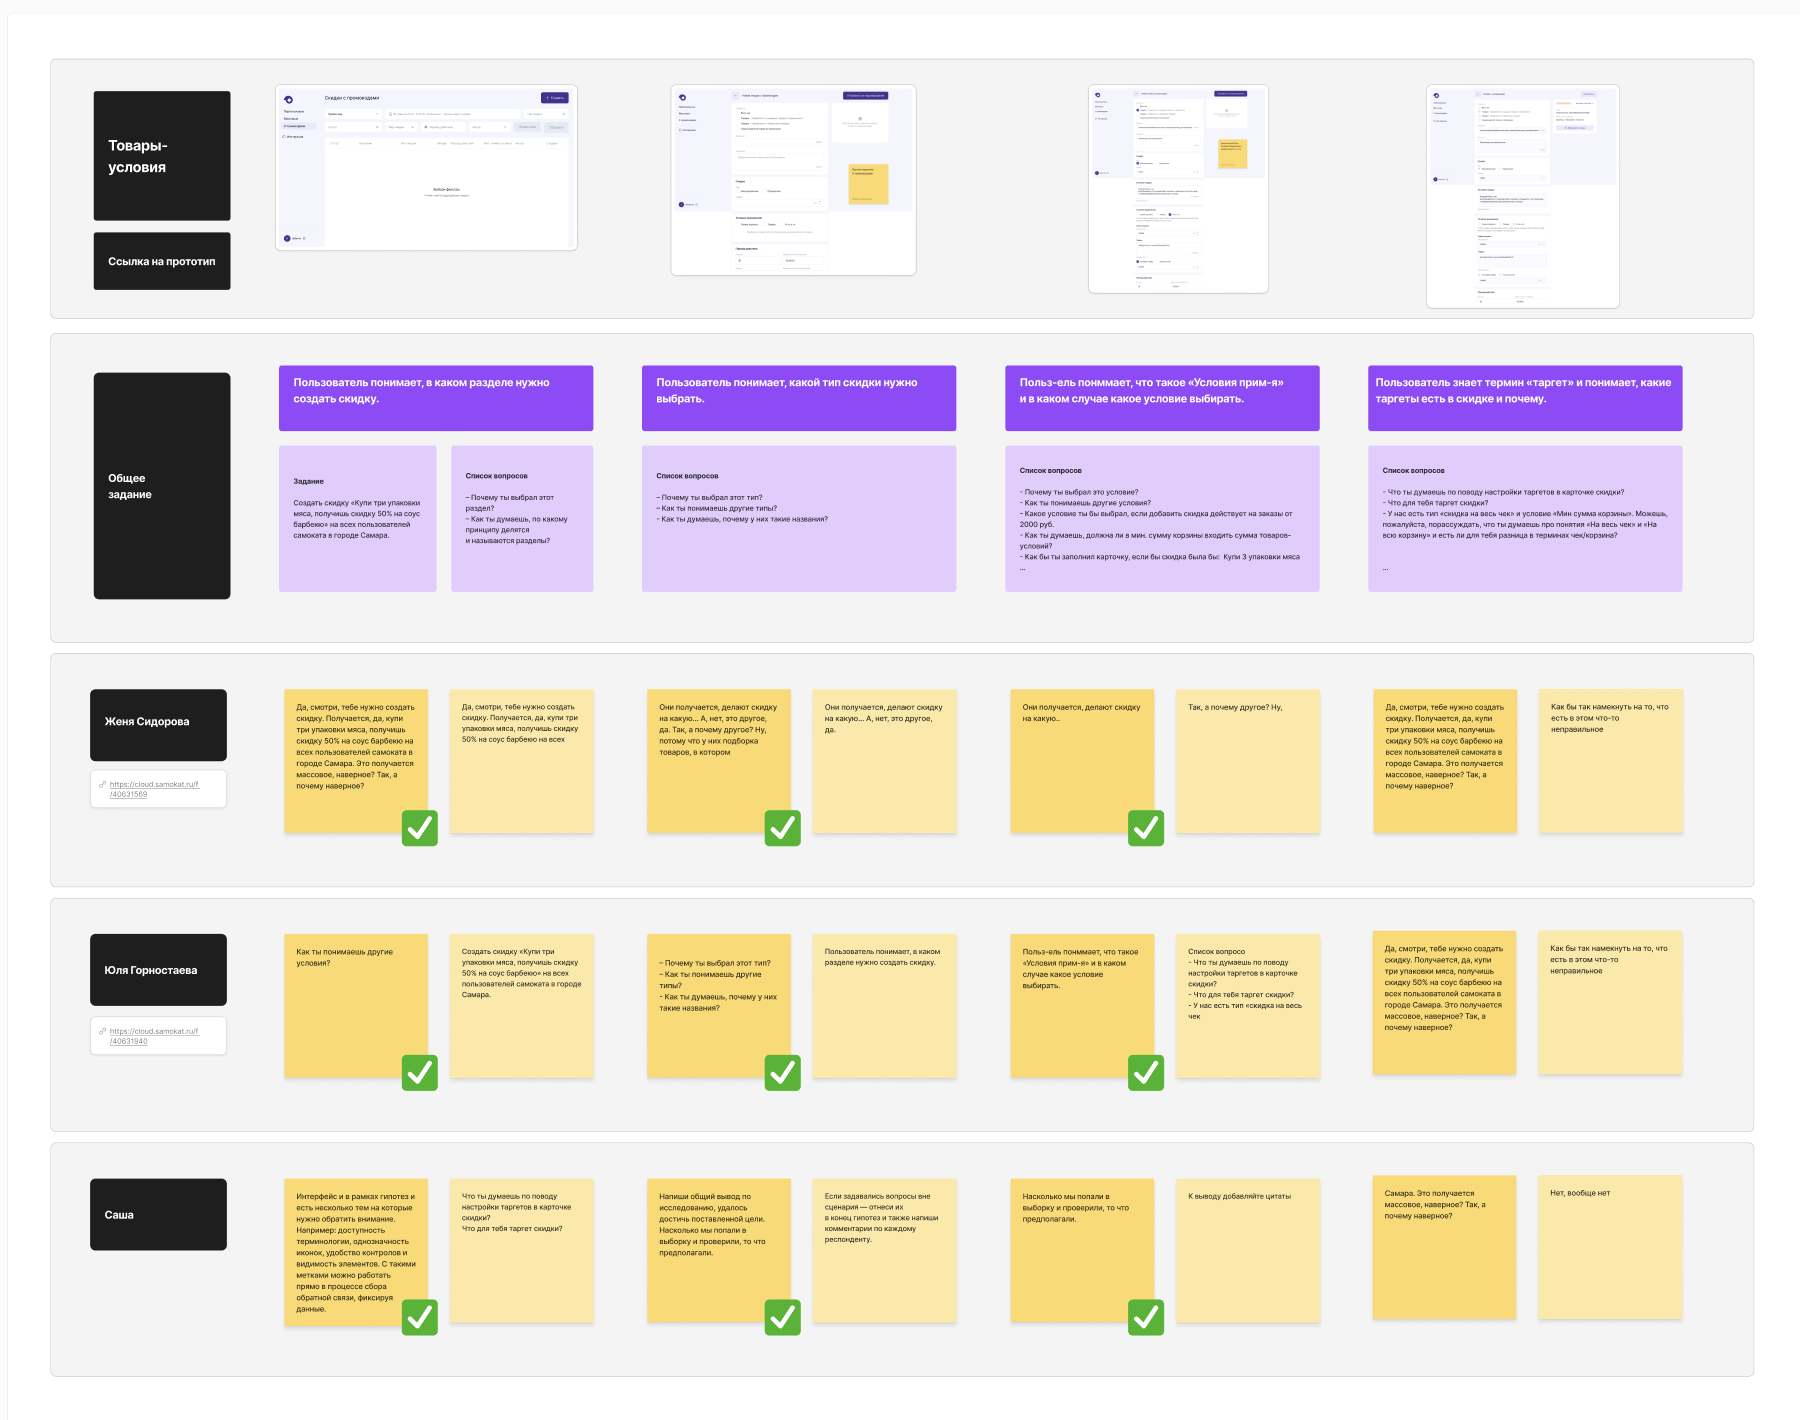
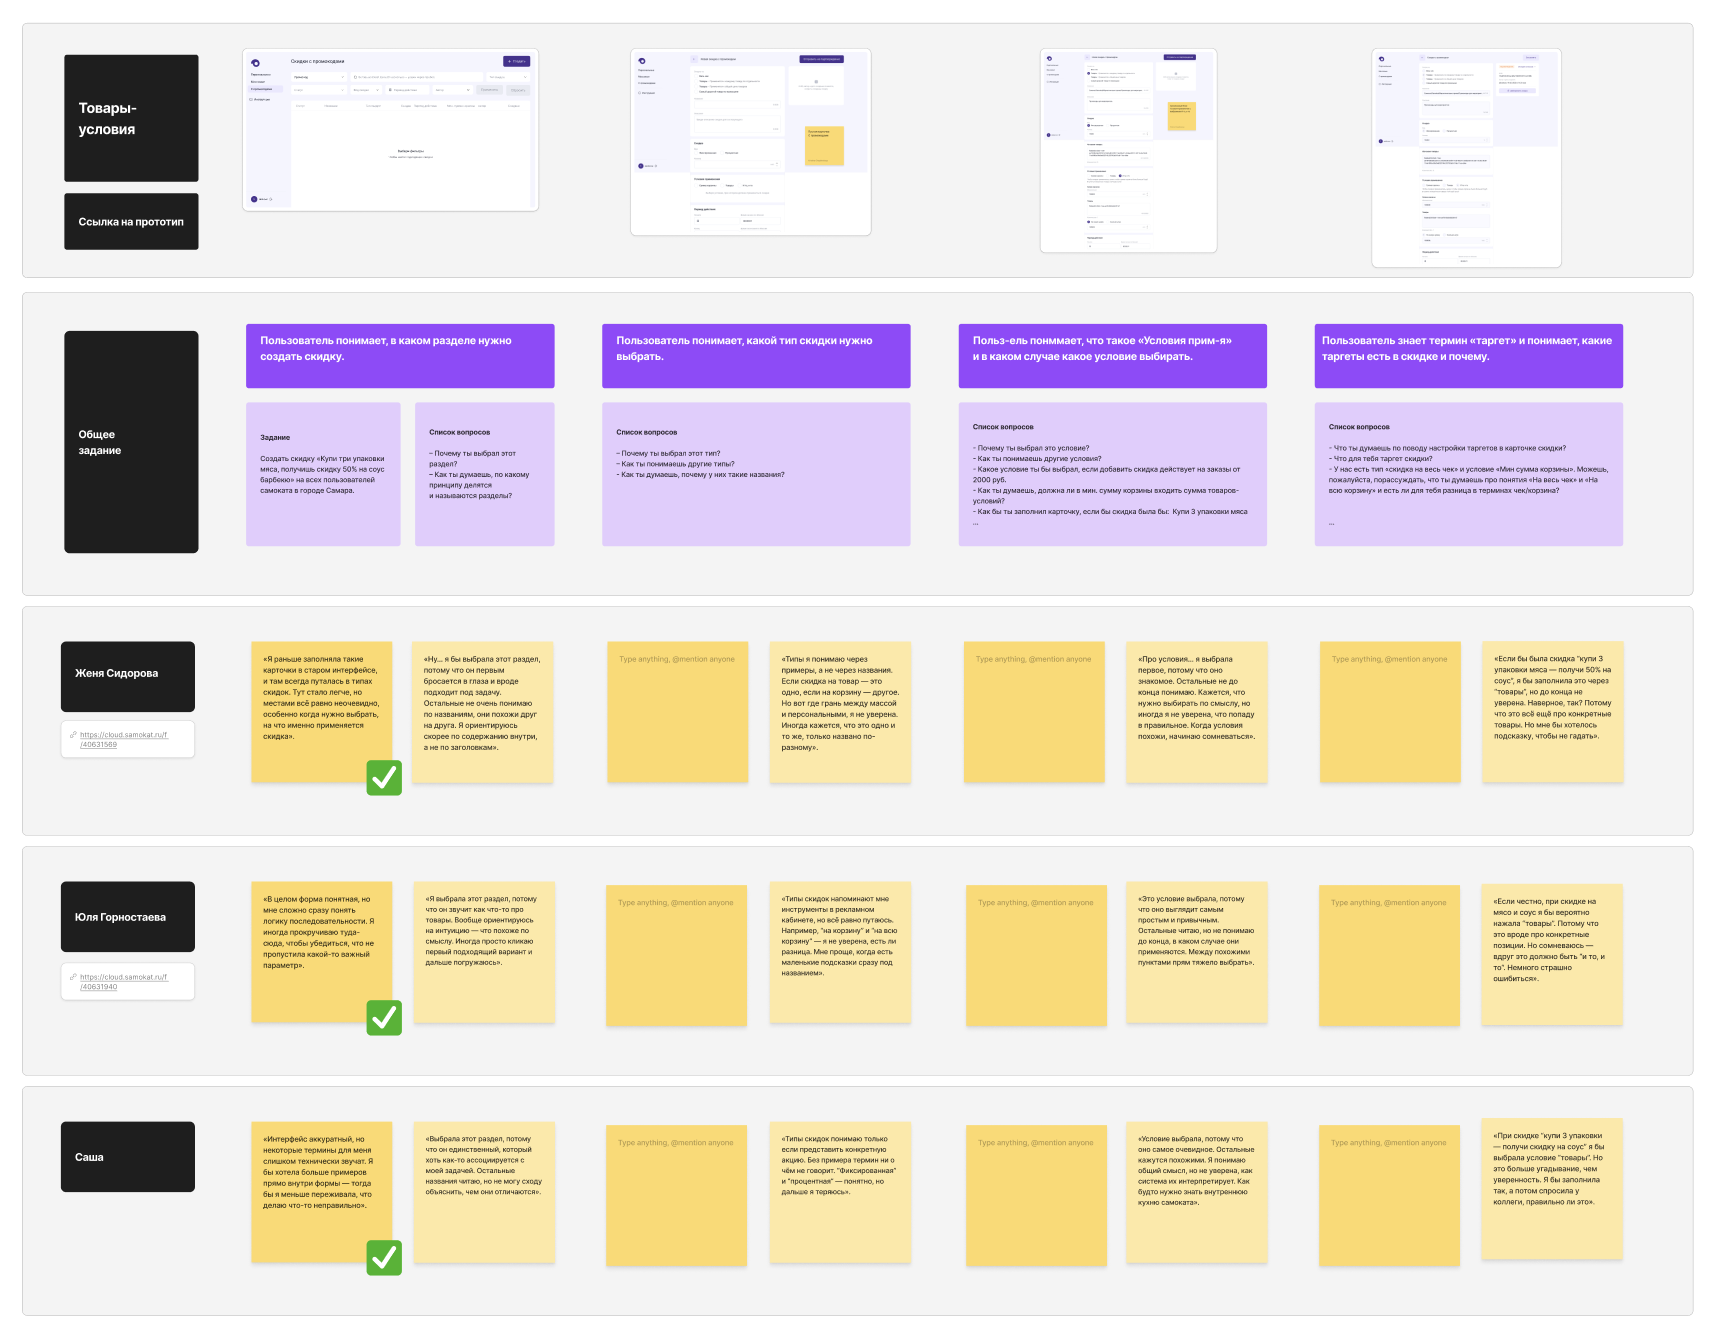
что-то

diff --git a/samokat.html b/samokat.html
@@ -178,6 +178,64 @@
       </p>
     </section>
 
+    <section class="case-section">
+      <h2 class="case-section__title">Процесс и артефакты</h2>
+      <h3 class="case-section__subtitle">UX-тестирование</h3>
+      <p class="case-section__text">
+        Чтобы убедиться, что новая форма создания скидок понятна и её можно быстро заполнить без инструкций, я провела UX-тестирование на 3 маркетологах, которые регулярно запускают акции.
+      </p>
+      <p class="case-section__text"><strong>Что проверяла:</strong></p>
+      <ul class="case-section__list">
+        <li>навигацию внутри формы;</li>
+        <li>понимание структуры условий;</li>
+        <li>корректность выбора типа скидки;</li>
+        <li>заполнение критических полей без ошибок.</li>
+      </ul>
+      <p class="case-section__text"><strong>Результат:</strong></p>
+      <ul class="case-section__list">
+        <li>Все участники успешно создали скидку с первого раза, без подсказок.</li>
+        <li>Зафиксировала небольшие замечания: уточнила формулировки подсказок и усилила визуальные связи между полями.</li>
+        <li>После правок пользователи оценили интерфейс как «намного проще и понятнее, чем предыдущий».</li>
+      </ul>
+      <figure class="case-figure">
+        <img class="case-figure__image" src="uxtest.png" alt="Скриншот UX-тестирования формы создания скидки" />
+      </figure>
+      <h3 class="case-section__subtitle">Финальные макеты</h3>
+      <p class="case-section__text">
+        Ниже — итоговые экраны интерфейса с учётом всех согласований, комментариев и результатов UX-тестирования. Использовала внутреннюю дизайн-систему.
+      </p>
+      <div class="case-slider" data-case-slider>
+        <div class="case-slider__controls">
+          <button class="case-slider__button case-slider__button--prev" type="button" data-case-slider-prev aria-label="Предыдущий макет">
+            <svg xmlns="http://www.w3.org/2000/svg" class="case-slider__icon" width="56" height="56" viewBox="0 0 48 48" aria-hidden="true">
+              <path d="M24.084 1.39551C24.8109 13.5194 34.4806 23.1891 46.6045 23.916L48 24L46.6045 24.084C34.4806 24.8109 24.8109 34.4806 24.084 46.6045L24 48L23.916 46.6045C23.1891 34.4806 13.5194 24.8109 1.39551 24.084L0 24L1.39551 23.916C13.5194 23.1891 23.1891 13.5194 23.916 1.39551L24 0L24.084 1.39551ZM23.2725 20.7842L19.1123 24.96L23.2725 29.1201L24.9844 29.1357L21.4316 25.584H28.3281V24.3359H21.4297L24.9678 20.7842H23.2725Z" fill="#CC0E1F"/>
+            </svg>
+          </button>
+          <button class="case-slider__button case-slider__button--next" type="button" data-case-slider-next aria-label="Следующий макет">
+            <svg xmlns="http://www.w3.org/2000/svg" class="case-slider__icon" width="56" height="56" viewBox="0 0 48 48" style="transform: scaleX(-1);" aria-hidden="true">
+              <path d="M24.084 1.39551C24.8109 13.5194 34.4806 23.1891 46.6045 23.916L48 24L46.6045 24.084C34.4806 24.8109 24.8109 34.4806 24.084 46.6045L24 48L23.916 46.6045C23.1891 34.4806 13.5194 24.8109 1.39551 24.084L0 24L1.39551 23.916C13.5194 23.1891 23.1891 13.5194 23.916 1.39551L24 0L24.084 1.39551ZM23.2725 20.7842L19.1123 24.96L23.2725 29.1201L24.9844 29.1357L21.4316 25.584H28.3281V24.3359H21.4297Л24.9678 20.7842H23.2725Z" fill="#CC0E1F"/>
+            </svg>
+          </button>
+        </div>
+        <div class="case-slider__track">
+          <div class="case-slider__slide is-active">
+            <img class="case-slider__image" src="screens/0.png" alt="Финальный макет 0" />
+          </div>
+          <div class="case-slider__slide">
+            <img class="case-slider__image" src="screens/1.png" alt="Финальный макет 1" />
+          </div>
+          <div class="case-slider__slide">
+            <img class="case-slider__image" src="screens/2.png" alt="Финальный макет 2" />
+          </div>
+          <div class="case-slider__slide">
+            <img class="case-slider__image" src="screens/3.png" alt="Финальный макет 3" />
+          </div>
+          <div class="case-slider__slide">
+            <img class="case-slider__image" src="screens/4.png" alt="Финальный макет 4" />
+          </div>
+      </div>
+    </section>
+
   </main>
   <script src="samokat.js"></script>
   <script src="analytics.js"></script>

diff --git a/samokat.js b/samokat.js
@@ -364,4 +364,49 @@ document.addEventListener("DOMContentLoaded", () => {
 
   window.addEventListener("resize", handleResize);
 
+  setupCaseSlider();
 });
+
+function setupCaseSlider() {
+  const slider = document.querySelector("[data-case-slider]");
+  if (!slider) {
+    return;
+  }
+
+  const slides = Array.from(slider.querySelectorAll(".case-slider__slide"));
+  const prevBtn = slider.querySelector("[data-case-slider-prev]");
+  const nextBtn = slider.querySelector("[data-case-slider-next]");
+
+  if (!slides.length || !prevBtn || !nextBtn) {
+    return;
+  }
+
+  let current = 0;
+
+  const setActive = (index) => {
+    slides.forEach((slide, i) => {
+      slide.classList.toggle("is-active", i === index);
+    });
+    current = index;
+  };
+
+  const move = (direction) => {
+    const total = slides.length;
+    const next = (current + direction + total) % total;
+    setActive(next);
+  };
+
+  prevBtn.addEventListener("click", () => move(-1));
+  nextBtn.addEventListener("click", () => move(1));
+  window.addEventListener("keydown", (event) => {
+    if (event.key === "ArrowLeft") {
+      event.preventDefault();
+      move(-1);
+    } else if (event.key === "ArrowRight") {
+      event.preventDefault();
+      move(1);
+    }
+  });
+
+  setActive(0);
+}

diff --git a/samokat.css b/samokat.css
@@ -265,6 +265,70 @@ body.case-page {
   border-radius: 12px;
 }
 
+.case-slider {
+  position: relative;
+  width: 100%;
+  max-width: 100%;
+  margin: 18px 0 0;
+}
+
+.case-slider__track {
+  position: relative;
+  width: 100%;
+  display: grid;
+  overflow: hidden;
+}
+
+.case-slider__slide {
+  grid-area: 1 / 1;
+  opacity: 0;
+  transition: opacity 0.4s ease;
+  display: block;
+  padding: 0;
+  pointer-events: none;
+}
+
+.case-slider__slide.is-active {
+  opacity: 1;
+  pointer-events: auto;
+  z-index: 1;
+}
+
+.case-slider__image {
+  width: 100%;
+  height: auto;
+  object-fit: contain;
+  border-radius: 12px;
+}
+
+.case-slider__controls {
+  display: flex;
+  justify-content: center;
+  gap: 12px;
+  margin: 0 0 12px;
+}
+
+.case-slider__button {
+  border: none;
+  background: transparent;
+  cursor: pointer;
+  padding: 0;
+  display: inline-flex;
+  align-items: center;
+  justify-content: center;
+  width: 64px;
+  height: 64px;
+}
+
+.case-slider__icon {
+  width: 56px;
+  height: 56px;
+}
+
+.case-slider__icon-shape {
+  fill: #f33a59;
+}
+
 
 .section-divider {
   width: 100%;
